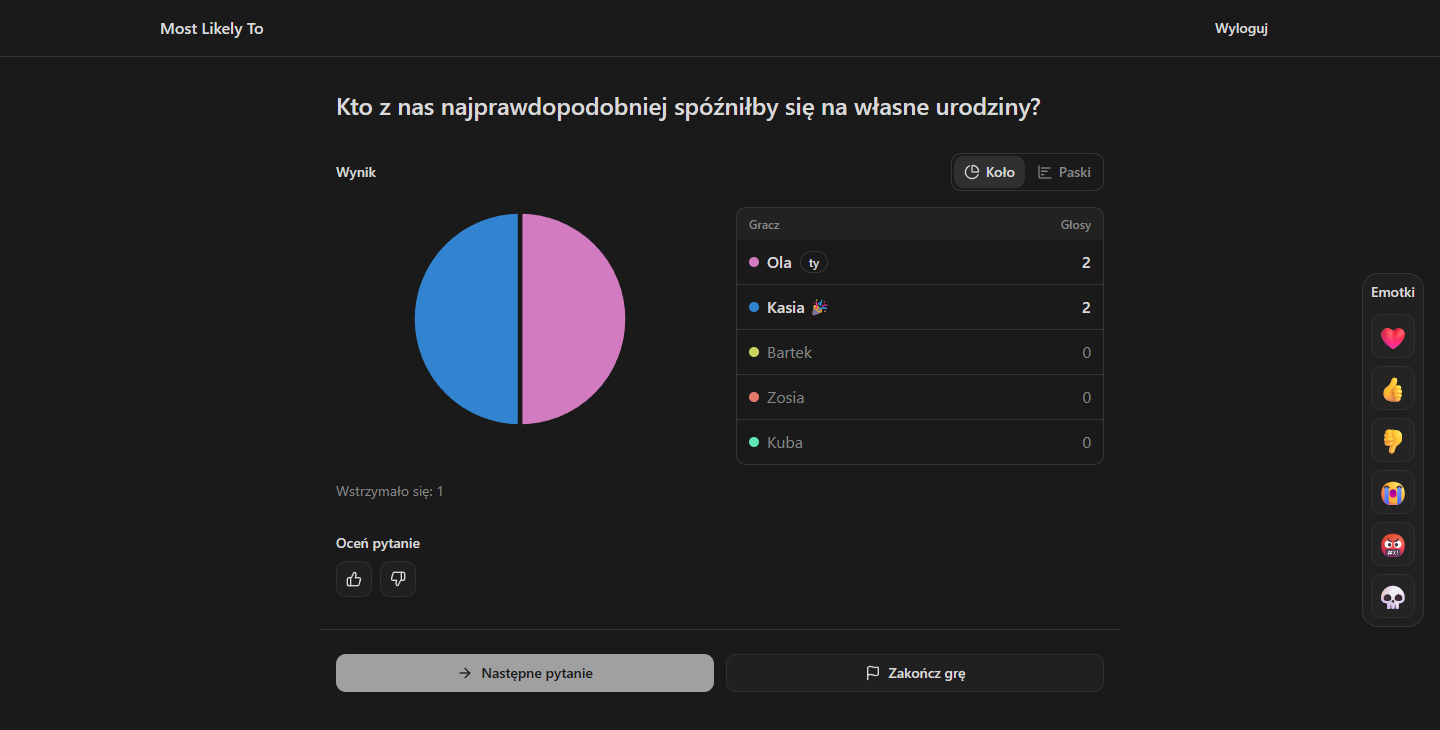
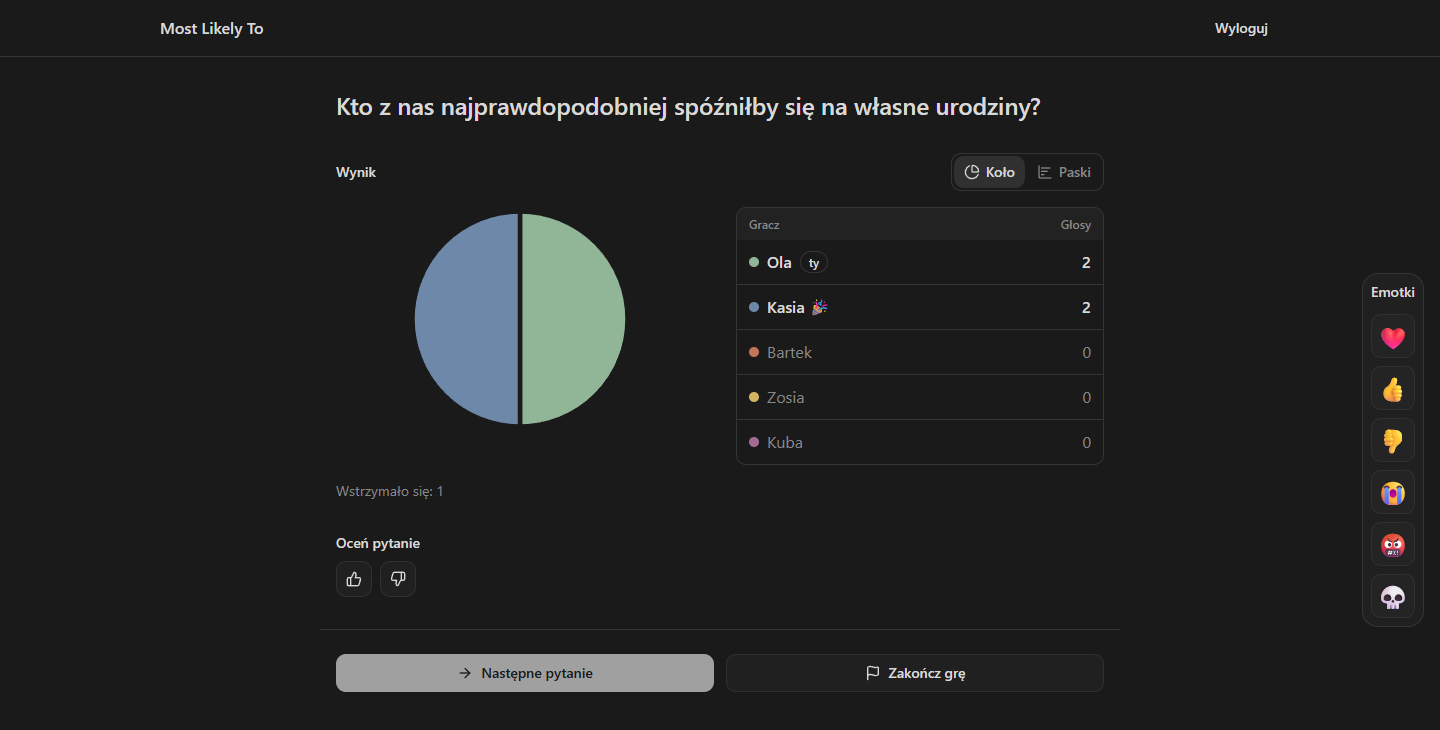
docs: zrzuty README w palecie „Stonowana”, wybór koloru na telefonie
Trzy zrzuty z /dev/room-window zrobione od nowa po S-18 (te same stany,
nowe kolory graczy) i nowy lobby-colors-phone.png: poczekalnia gościa z
otwartą paletą. Tabela pod zrzutem odsłony ma trzy kolumny, a krok 2
„How to play” wspomina wybór koloru. Wariant B, wybór Karola.

Changed region(s): [[0.2812, 0.2712, 0.4375, 0.6027]]

diff --git a/README.md b/README.md
@@ -6,14 +6,14 @@ A live party game for a group of friends on a call. Everyone sees the same “Wh
 
 ![The reveal on a laptop: the question, a pie chart of the votes and the table of players](docs/screenshots/reveal-laptop.png)
 
-| Voting on a phone, with emotes                                                                     | End of the evening                                                                                            |
-| -------------------------------------------------------------------------------------------------- | ------------------------------------------------------------------------------------------------------------- |
-| <img src="docs/screenshots/vote-phone.png" width="260" alt="Voting on a phone, with three emotes"> | <img src="docs/screenshots/summary-laptop.png" width="520" alt="The summary of the evening with a pie chart"> |
+| Picking your colour                                                                                                                                                         | Voting, with emotes                                                                                | End of the evening                                                                                            |
+| --------------------------------------------------------------------------------------------------------------------------------------------------------------------------- | -------------------------------------------------------------------------------------------------- | ------------------------------------------------------------------------------------------------------------- |
+| <img src="docs/screenshots/lobby-colors-phone.png" width="190" alt="The lobby on a phone with the colour palette open: taken colours greyed with a cross, your own ticked"> | <img src="docs/screenshots/vote-phone.png" width="190" alt="Voting on a phone, with three emotes"> | <img src="docs/screenshots/summary-laptop.png" width="340" alt="The summary of the evening with a pie chart"> |
 
 ## How to play
 
 1. **The host** signs in with Discord or Google, picks question categories (18+ is opt-in per category), reviews the question list and shares a link.
-2. **Friends** open the link and type a nick. No account, nothing to install.
+2. **Friends** open the link and type a nick, then tap their dot to pick a colour. No account, nothing to install.
 3. **Everyone votes** for one player, themselves included, or abstains. You see who has voted, never for whom.
 4. **The reveal** comes after the last vote, on every screen at once: a pie or bar chart with the counts. Then you talk about it, rate the question with a thumb and send emotes.
 5. **The host** (or a co-host they pick) moves on, skips a question, lets latecomers in and ends the game with a summary of the evening.
